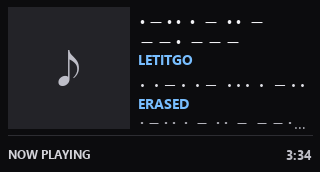
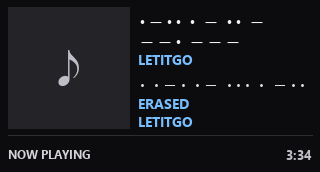
Morse subtitle: a one-line album shows the decoded text instead
Under the band's Morse title and artist, the album had room for one line,
which was the Morse album truncated with "…" and no decoded line. A field
with room for one line that decodes now shows only the decoded text. An
album that does not decode, or any field with the subtitle turned off, is
unchanged. Option (a) from the TASKS_D notes.

diff --git a/tests/test_renderer.py b/tests/test_renderer.py
@@ -640,6 +640,34 @@ class MorseSubtitleTests(unittest.TestCase):
         off = self.r.layout_text_block(draw, MORSE_TITLE, "Erased Tapes", "", *fonts, 174)
         self.assertNotIn("LETITGO", [line for _, line, _, _ in off])
 
+    @unittest.skipUnless((FONTS / "segoeuib.ttf").exists(), "needs Windows fonts")
+    def test_one_line_album_shows_only_the_decoded_text(self):
+        from PIL import Image, ImageDraw
+
+        draw = ImageDraw.Draw(Image.new("RGB", (8, 8)))
+        fonts = [self.r.find_text_font(n, b) for n, b in ((18, True), (18, False), (16, False))]
+        morse = self.r.find_text_font(14, True)
+        artist = "･ ･－･ ･－ ･･･ ･ －･･"
+        items = self.r.layout_text_block(draw, MORSE_TITLE, artist, MORSE_TITLE, *fonts, 174, morse)
+        album = [(y, line, font) for y, line, font, _ in items if y > 110]
+        self.assertEqual([(line, font) for _, line, font in album], [("LETITGO", morse)])
+        self.assertLess(album[0][0] + self.r.MORSE_STEP, self.r.DIVIDER_Y + 1)
+        # Turned off, the album stays in Morse and nothing is decoded.
+        items = self.r.layout_text_block(draw, MORSE_TITLE, artist, MORSE_TITLE, *fonts, 174)
+        album = [line for _, line, font, _ in items if font is fonts[2]]
+        self.assertTrue(album and album[0].startswith(MORSE_TITLE[:4]), album)
+        self.assertNotIn("LETITGO", [line for _, line, _, _ in items])
+
+    @unittest.skipUnless((FONTS / "segoeuib.ttf").exists(), "needs Windows fonts")
+    def test_one_line_album_that_does_not_decode_keeps_its_text(self):
+        from PIL import Image, ImageDraw
+
+        draw = ImageDraw.Draw(Image.new("RGB", (8, 8)))
+        fonts = [self.r.find_text_font(n, b) for n, b in ((18, True), (18, False), (16, False))]
+        morse = self.r.find_text_font(14, True)
+        items = self.r.layout_text_block(draw, MORSE_TITLE, "･ ･－･ ･－ ･･･ ･ －･･", "Seychelles", *fonts, 174, morse)
+        self.assertEqual(items[-1][1], "Seychelles")
+
     def test_setting_defaults_on_and_can_be_turned_off(self):
         self.assertTrue(self.r.parse_args([]).morse_subtitle)
         self.assertFalse(self.r.parse_args(["--no-morse-subtitle"]).morse_subtitle)

diff --git a/tiga_windows_nowplaying_v2.py b/tiga_windows_nowplaying_v2.py
@@ -662,15 +662,18 @@ def layout_text_block(draw, title, secondary, tertiary, title_font, artist_font,
     The album starts below the last artist line and gets only the lines that fit
     above the divider. It used to be clamped to y=110, which drew it over a
     two-line artist (issue #10). A field in Morse code gives up one of its lines
-    to the decoded text, drawn in `morse_font` (None: no decoded lines).
+    to the decoded text, drawn in `morse_font` (None: no decoded lines). With room
+    for one line only (the album, under a long title and artist), the decoded text
+    replaces the Morse: a truncated Morse line says almost nothing.
     """
     items = []
 
     def field(y, text, font, fill, step, max_lines):
-        decoded = decode_morse(text) if morse_font is not None and max_lines > 1 else None
-        for line in fit_text(draw, text, font, max_text_w, max_lines - 1 if decoded else max_lines):
-            items.append((y, line, font, fill))
-            y += step
+        decoded = decode_morse(text) if morse_font is not None else None
+        if not decoded or max_lines > 1:
+            for line in fit_text(draw, text, font, max_text_w, max_lines - 1 if decoded else max_lines):
+                items.append((y, line, font, fill))
+                y += step
         if decoded:
             for line in fit_text(draw, decoded, morse_font, max_text_w, 1):
                 items.append((y, line, morse_font, MORSE_FILL))

diff --git a/docs/PROJECT_HISTORY.md b/docs/PROJECT_HISTORY.md
@@ -833,6 +833,8 @@ no word separator. Segoe UI has neither character; Yu Gothic has both.
 - **Morse subtitle:** a field that is entirely Morse and decodes completely gets the
   decoded text as a smaller line (`--no-morse-subtitle` turns it off). With single spaces
   only, the band's title decodes as `LETITGO`; word gaps can't be recovered.
+  A field with room for one line only (in practice the album, under a Morse title and
+  artist) shows just the decoded text: a truncated Morse line said almost nothing.
 
 ---
 
